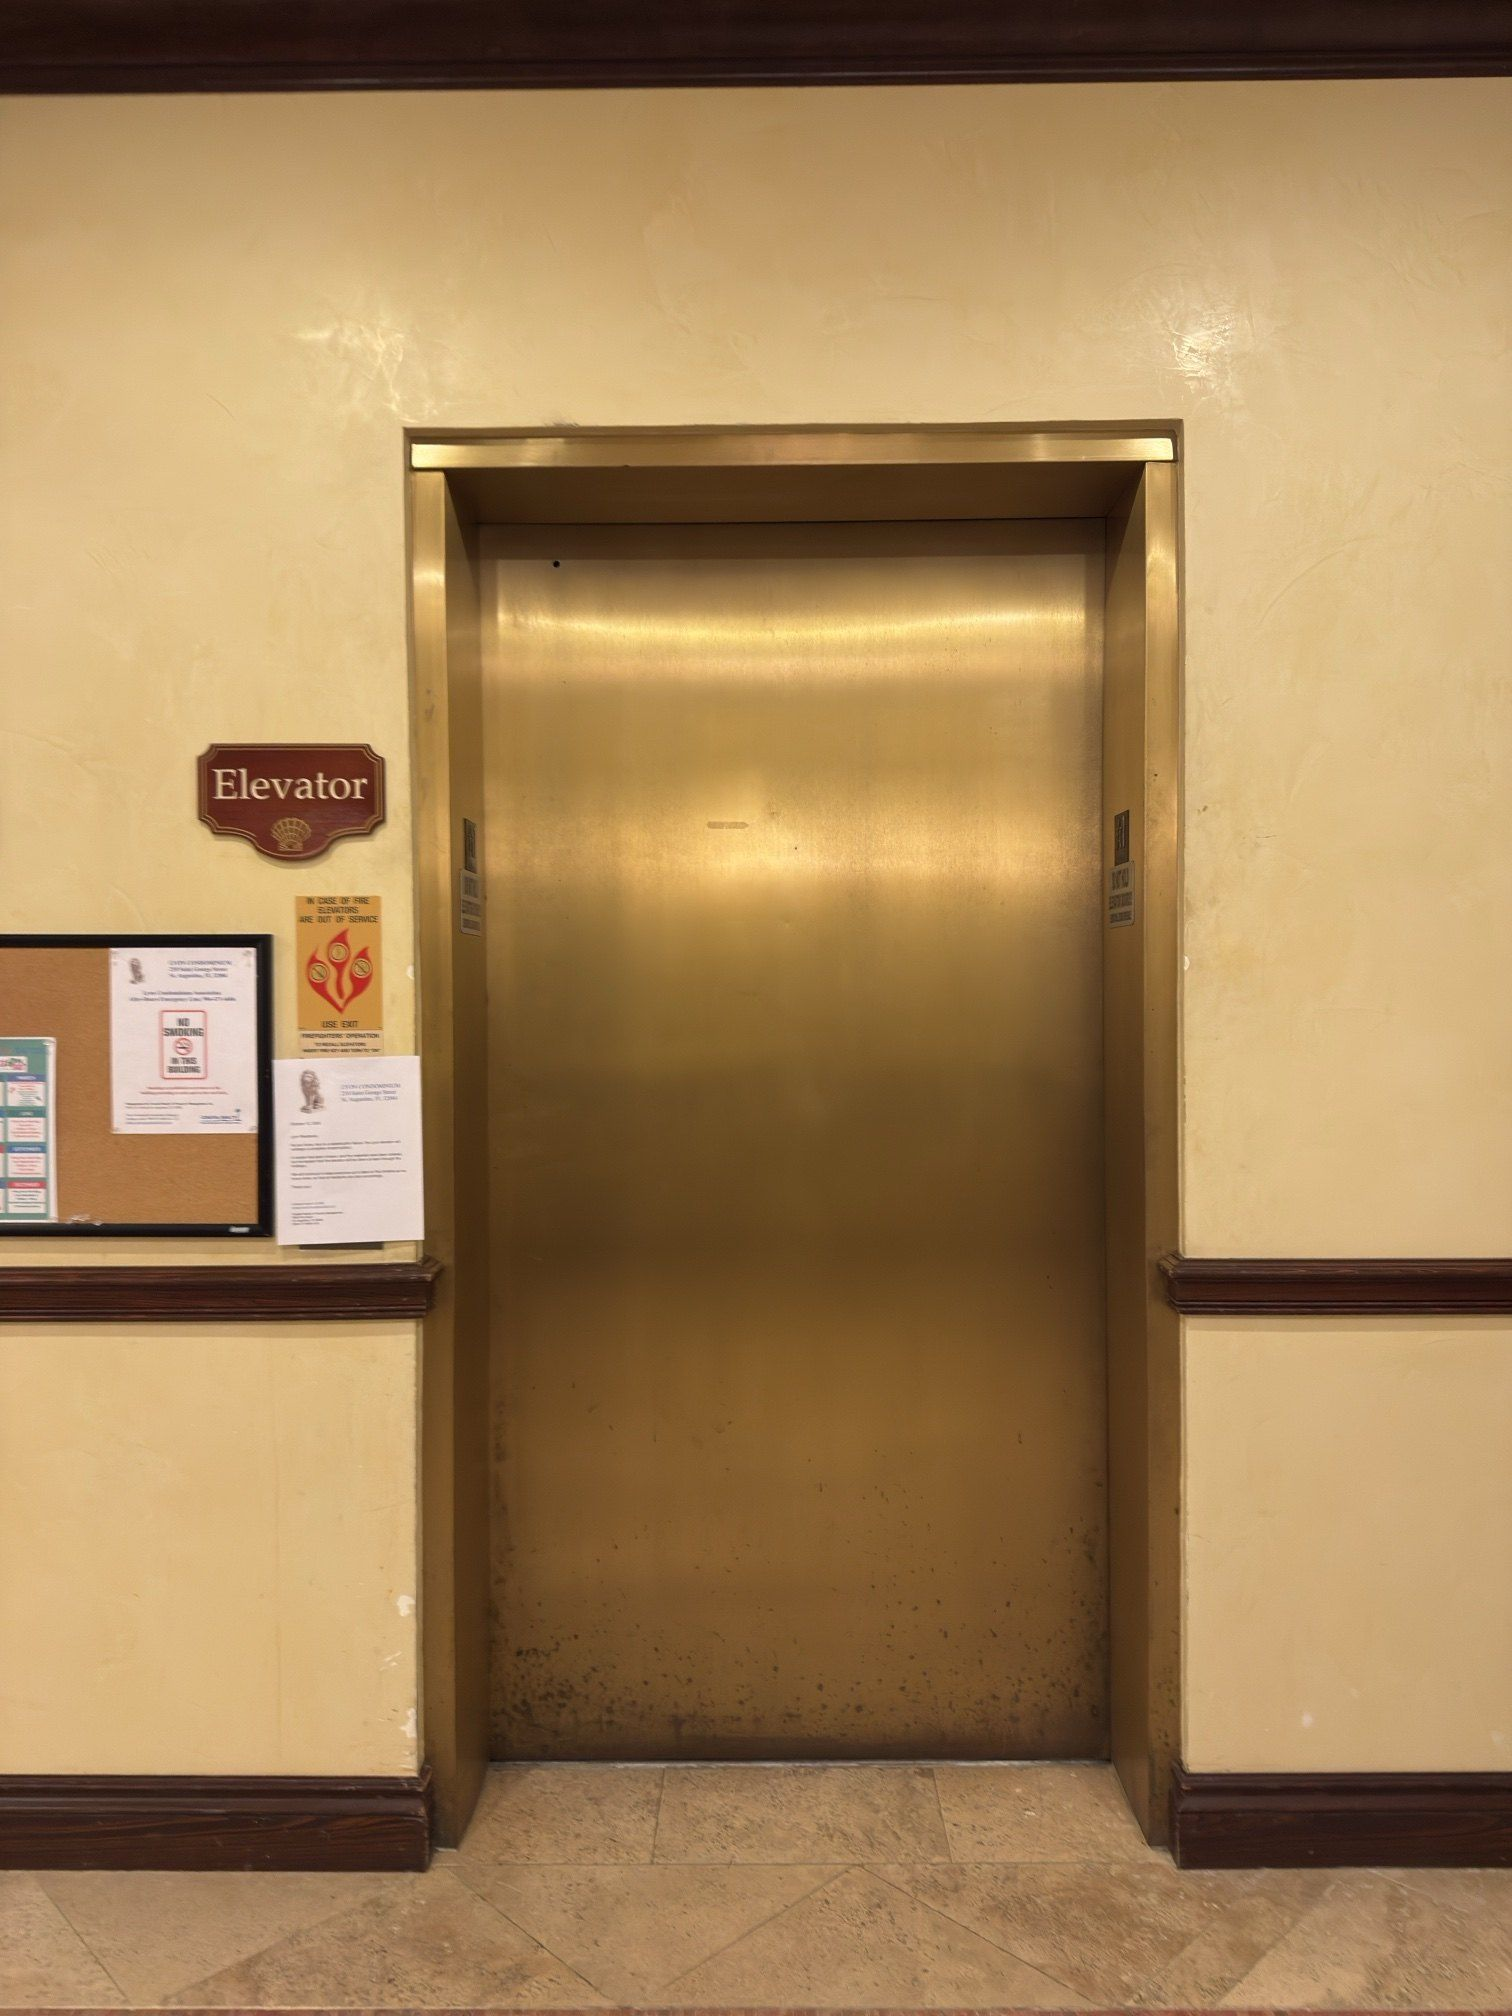
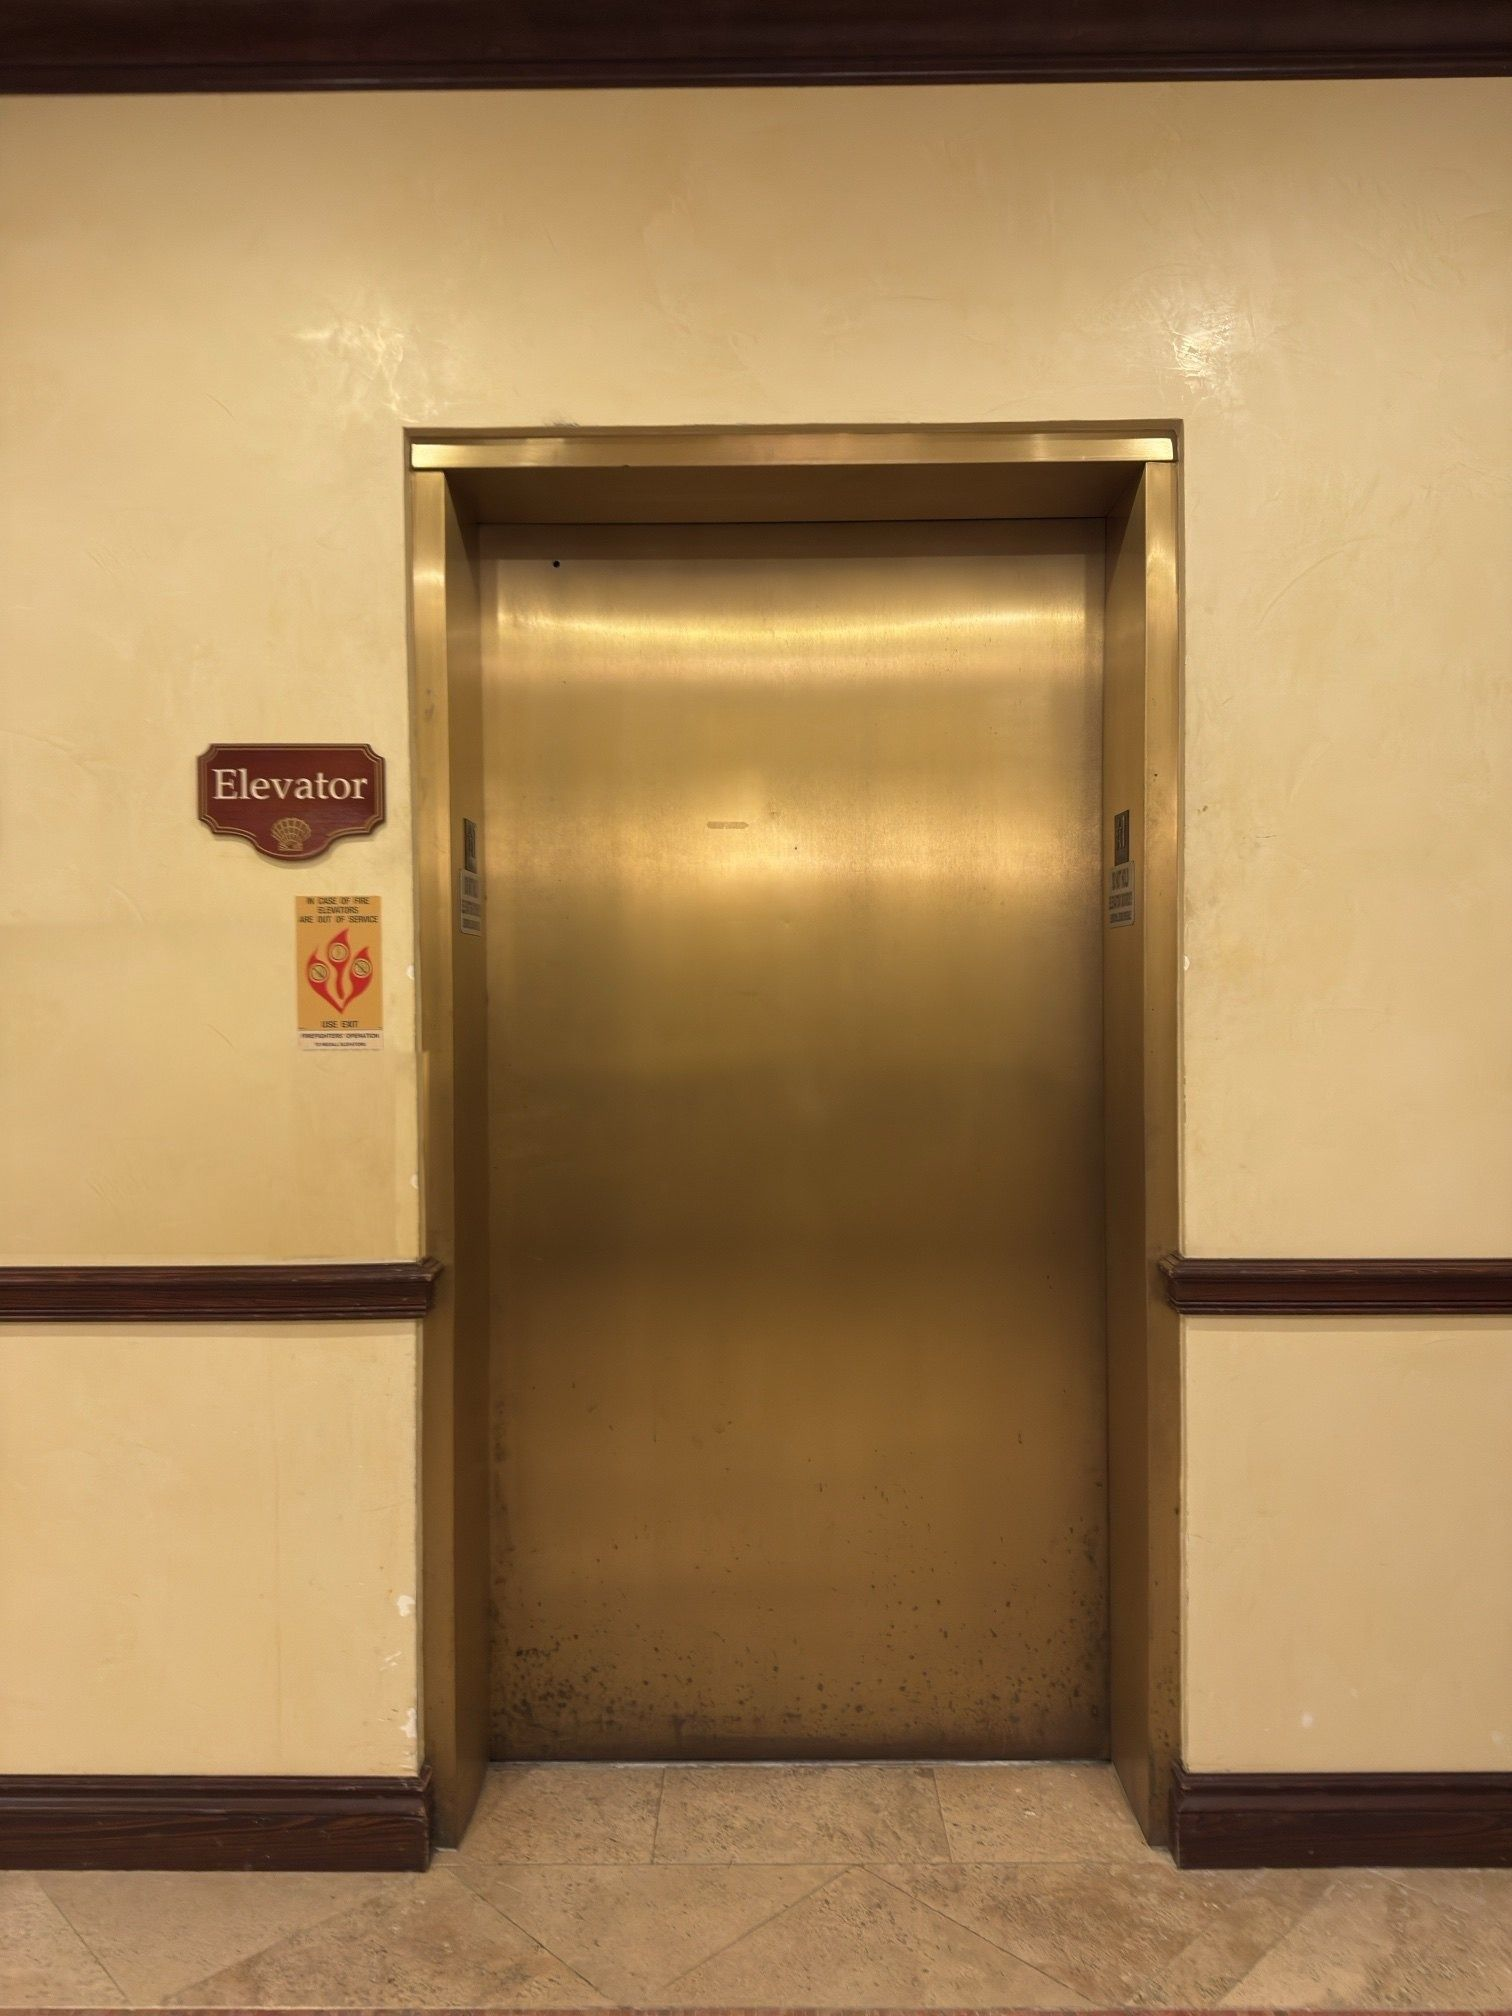
Lyon cab: corkboard and notice removed from the lobby photo; cover trimmed (v41)
Claude-Session: https://claude.ai/code/session_015TsdfB5GXv2LJYA4e9jtWT

Changed region(s): [[0.0, 0.4375, 0.2798, 0.625]]

diff --git a/lyon-cab/index.html b/lyon-cab/index.html
@@ -160,11 +160,8 @@ dd{margin:0;color:var(--cream)}
     <div class="cv-sub">Elevator Design Explorer</div>
     <div class="cv-pitch">The elevator pitch</div>
     <p class="cv-lede">Start in the lobby at the first-floor door and compare finishes. Then step inside the cab as it is today, switch between the two proposed interiors, and try the choices still open: the wood finish, mirrors, the water elevator plaque, the ceiling, and the metal of the reveals.</p>
-    <p class="cv-wip">Work in progress. The finishes shown are samples we picked, not decisions. Any other material or layout can be added to try it out. Sizes are estimates until the cab is measured.</p>
-    <div class="cv-team"><div class="cv-k">ELEVATOR COMMITTEE</div>Pam, Tony, Jill and Donna</div>
     <button class="cv-go" type="button" id="coverGo" disabled>Open the explorer</button>
     <div class="cv-load" id="coverLoad" role="status"><span class="cv-bar" aria-hidden="true"></span><span>Loading the 3D cab. This can take 10 to 20 seconds on an iPad.</span></div>
-    <div class="cv-contact">Tony Martinez<br><a href="mailto:conceptblue@gmail.com">conceptblue@gmail.com</a></div>
   </div>
 </div>
 <div id="stage"></div>
@@ -251,7 +248,7 @@ dd{margin:0;color:var(--cream)}
 </script>
 <script>
 /* load the 3D script; retry twice with a fresh URL, then report what the server said (2026-10-23) */
-(function(){var V='40',n=0;
+(function(){var V='41',n=0;
   function report(){fetch('app.js?v='+V+'&probe='+Date.now(),{cache:'no-store'}).then(function(r){
       window.__coverFail&&window.__coverFail('the 3D script did not download: '+(r.ok?'it downloads but would not start':'server said '+r.status))
     },function(e){window.__coverFail&&window.__coverFail('the 3D script did not download: network error')})}
